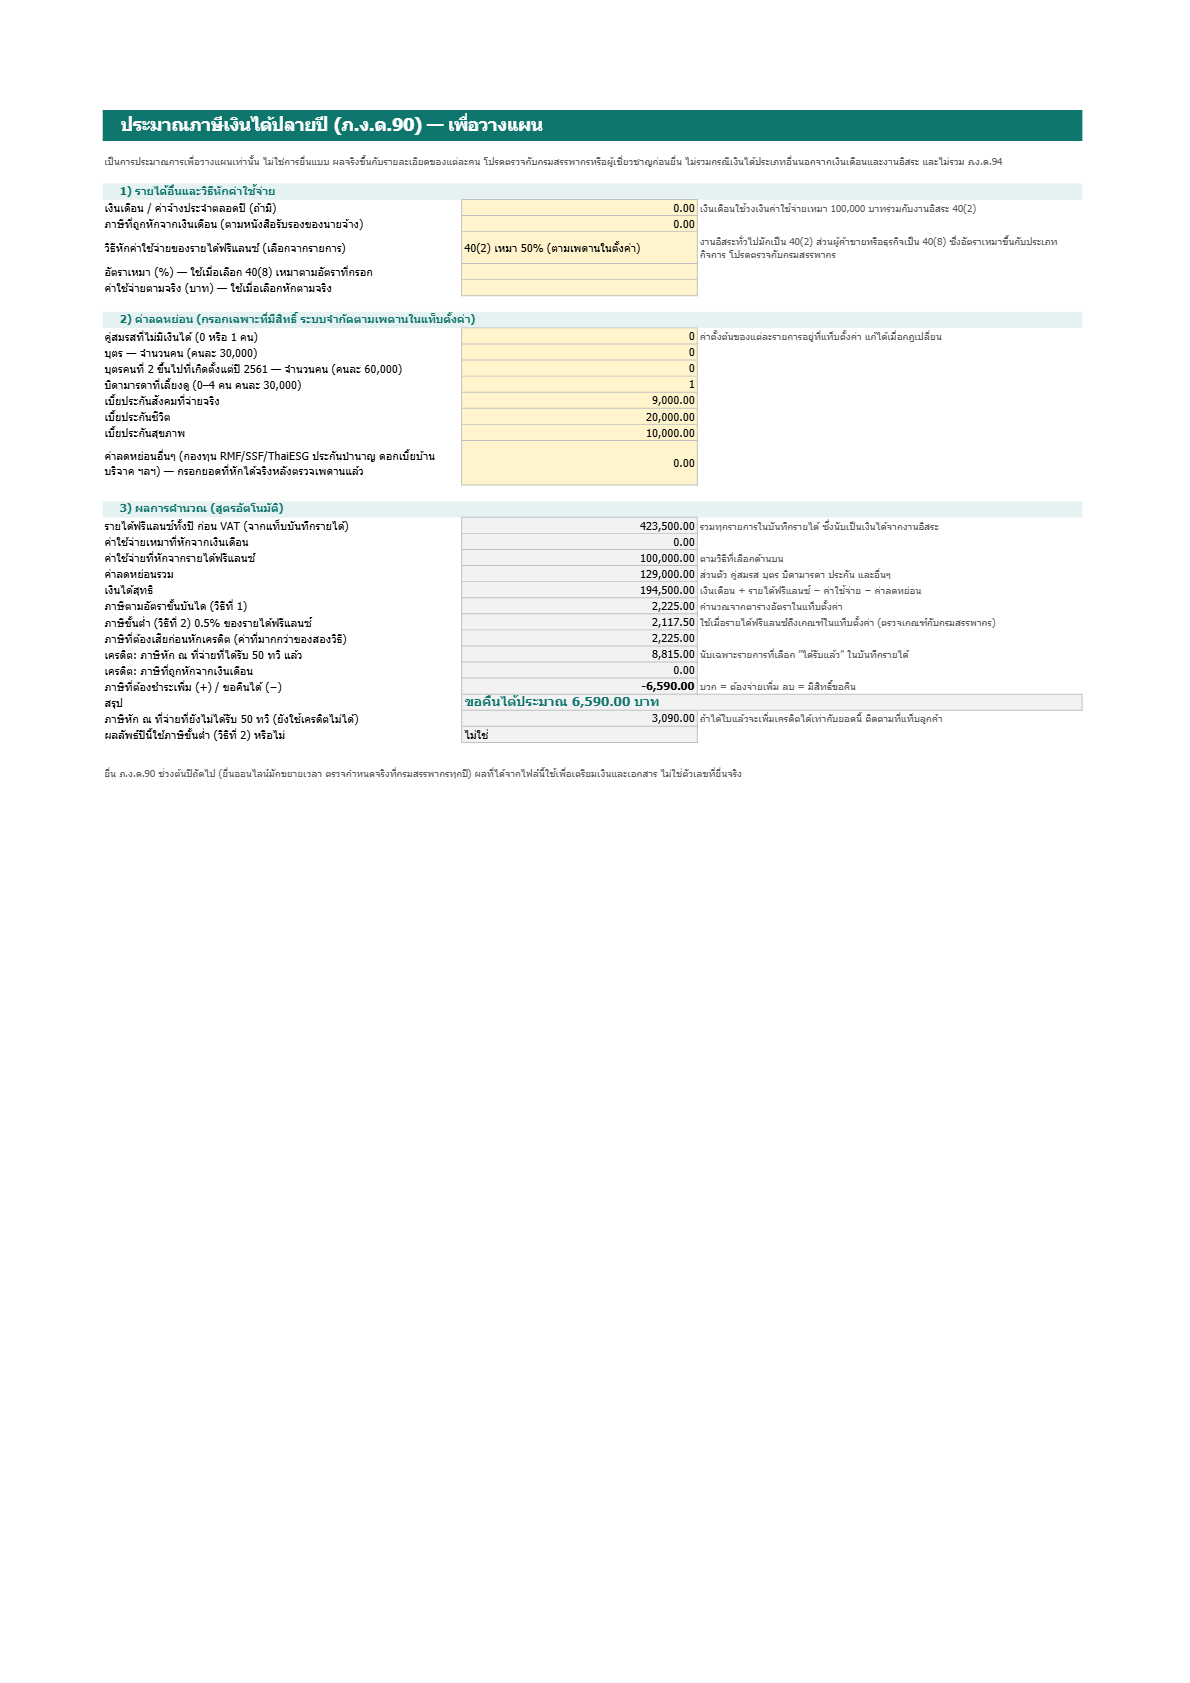
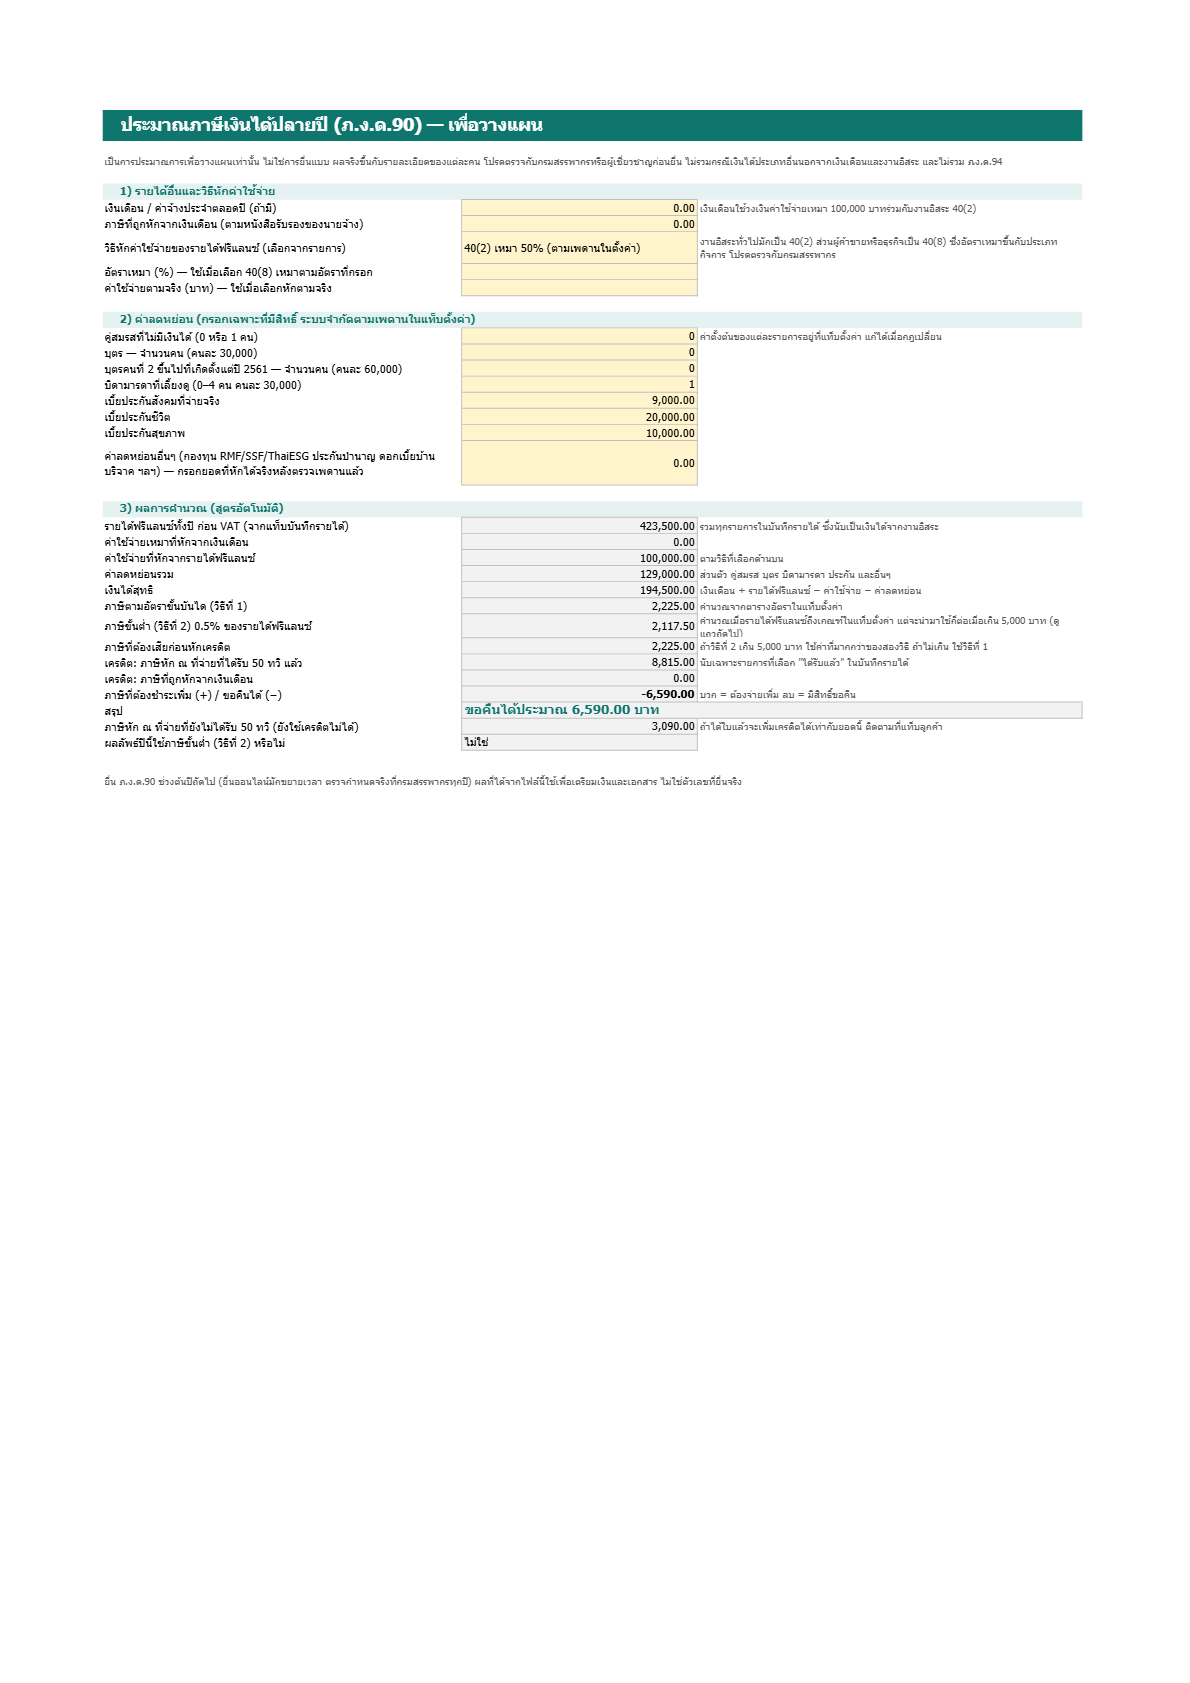
Update site 2026-11-03

Changed region(s): [[0.3731, 0.3708, 0.8084, 0.4635], [0.0622, 0.3708, 0.3109, 0.4635]]

diff --git a/toolkit/index.html b/toolkit/index.html
@@ -55,8 +55,8 @@
 
 <h2>ข้อมูลอ้างอิงและความโปร่งใส</h2>
 <ul>
-  <li>ตารางอัตราภาษีขั้นบันไดตรวจกับหน้าของกรมสรรพากรโดยตรง</li>
-  <li>เกณฑ์ภาษีขั้นต่ำ ค่าใช้จ่ายเหมา และค่าลดหย่อนบางรายการมาจากแหล่งรอง ไฟล์ระบุไว้ชัดเจนว่าค่าไหนยังไม่ได้ยืนยันกับกรมสรรพากร และแก้ได้ในแท็บตั้งค่า</li>
+  <li>ตารางอัตราภาษีขั้นบันได และกติกาภาษีขั้นต่ำ 0.5% (ใช้เมื่อเงินได้ถึง 120,000 บาท และไม่ใช้ถ้าคำนวณแล้วไม่เกิน 5,000 บาท) ตรวจกับเอกสารของกรมสรรพากร ค่าที่ยืนยันสำหรับปีภาษี 2568 ปีภาษีอื่นอาจต่างกัน</li>
+  <li>ค่าใช้จ่ายเหมาและค่าลดหย่อนบางรายการมาจากแหล่งรอง ไฟล์ระบุไว้ชัดเจนว่าค่าไหนยังไม่ได้ยืนยันกับกรมสรรพากร และแก้ได้ในแท็บตั้งค่า</li>
   <li>เราเปิดไฟล์ใน Microsoft Excel (เวอร์ชัน 16) แล้วป้อนกรณีสุ่มหลายสิบกรณี เทียบทุกช่องกับตัวคำนวณที่เขียนแยกต่างหาก ผลตรงกัน ทดสอบกับ Excel รุ่นเดียว ยังไม่ได้ทดสอบ Google Sheets หรือโปรแกรมอื่น</li>
 </ul>
 
@@ -78,7 +78,7 @@
 <h3>ใช้กับ BahtDoc ได้ไหม</h3>
 <p>ได้ ใบแจ้งหนี้ที่ทำจาก <a href="../app/">BahtDoc</a> มียอดก่อน VAT และยอดหัก ณ ที่จ่ายที่นำมาลงบันทึกรายได้ได้ทันที</p>
 <h3>ค่าตั้งต้นล้าสมัยไหม</h3>
-<p>ตรวจล่าสุด 30 ต.ค. 2569 ถ้ากฎเปลี่ยน แก้ค่าได้ที่แท็บตั้งค่า</p>
+<p>ตรวจล่าสุด 30 ต.ค. - 3 พ.ย. 2569 ถ้ากฎเปลี่ยน แก้ค่าได้ที่แท็บตั้งค่า</p>
 
 </div></main>
 <footer class="site"><div class="wrap">
